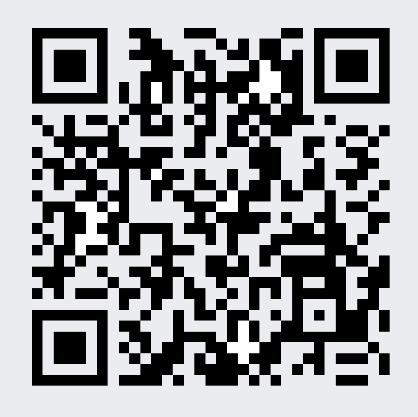
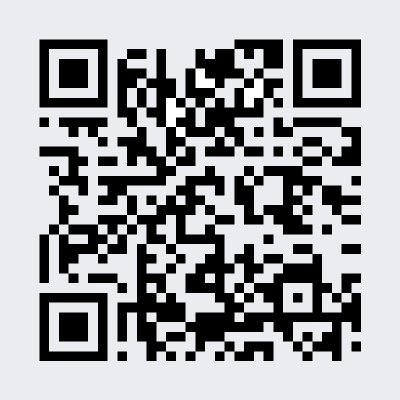
lnurl v2

diff --git a/index.html b/index.html
@@ -382,8 +382,8 @@
         </div>
         <div id="donate" class="dropdown">
             <p>LNURL pro příspěvek prostřednictvím Lightning network:</p>
-            <img src="https://btc-slovnik.cz/img/lnurl.png" alt="LNURL" />
-            <p class="lnurl">LNURL1DP68GURN8GHJ7URP0YHXYARRWDKX7ANWD94JUCM69AKXUATJD3CZ7CTSDYHHVVF0D3H82UNV9UCS5SXUCE</p>
+            <img class="pointer" onclick="clipboardLNURL()" src="https://btc-slovnik.cz/img/lnurl.png" alt="LNURL" />
+            <p onclick="clipboardLNURL()" class="lnurl pointer">LNURL1DP68GURN8GHJ7URP0YHXYARRWDKX7ANWD94JUCM69AKXUATJD3CZ7CTSDYHHVVF0D3H82UNV9UESMDFXNL</p>
             <a class="invoice" rel=”nofollow” href="https://btc-slovnik.cz/pages/donate.html">Standardní LN invoice možno vygenerovat zde.</a>
         </div>
     </footer>

diff --git a/pages/wallet.html b/pages/wallet.html
@@ -81,8 +81,8 @@
     </div>
     <div id="donate" class="dropdown">
         <p>LNURL pro příspěvek prostřednictvím Lightning network:</p>
-        <img src="https://btc-slovnik.cz/img/lnurl.png" alt="LNURL" />
-        <p class="lnurl">LNURL1DP68GURN8GHJ7URP0YHXYARRWDKX7ANWD94JUCM69AKXUATJD3CZ7CTSDYHHVVF0D3H82UNV9UCS5SXUCE</p>
+        <img class="pointer" onclick="clipboardLNURL()" src="https://btc-slovnik.cz/img/lnurl.png" alt="LNURL" />
+        <p onclick="clipboardLNURL()" class="lnurl pointer">LNURL1DP68GURN8GHJ7URP0YHXYARRWDKX7ANWD94JUCM69AKXUATJD3CZ7CTSDYHHVVF0D3H82UNV9UESMDFXNL</p>
         <a class="invoice" rel=”nofollow” href="https://btc-slovnik.cz/pages/donate.html">Standardní LN invoice možno vygenerovat zde.</a>
     </div>
   </footer>

diff --git a/pages/block.html b/pages/block.html
@@ -121,8 +121,8 @@
     </div>
     <div id="donate" class="dropdown">
       <p>LNURL pro příspěvek prostřednictvím Lightning network:</p>
-      <img src="https://btc-slovnik.cz/img/lnurl.png" alt="LNURL" />
-      <p class="lnurl">LNURL1DP68GURN8GHJ7URP0YHXYARRWDKX7ANWD94JUCM69AKXUATJD3CZ7CTSDYHHVVF0D3H82UNV9UCS5SXUCE</p>
+      <img class="pointer" onclick="clipboardLNURL()" src="https://btc-slovnik.cz/img/lnurl.png" alt="LNURL" />
+      <p onclick="clipboardLNURL()" class="lnurl pointer">LNURL1DP68GURN8GHJ7URP0YHXYARRWDKX7ANWD94JUCM69AKXUATJD3CZ7CTSDYHHVVF0D3H82UNV9UESMDFXNL</p>
       <a class="invoice" rel=”nofollow” href="https://btc-slovnik.cz/pages/donate.html">Standardní LN invoice možno vygenerovat zde.</a>
     </div>
   </footer>

diff --git a/pages/crypto.html b/pages/crypto.html
@@ -108,8 +108,8 @@
     </div>
     <div id="donate" class="dropdown">
       <p>LNURL pro příspěvek prostřednictvím Lightning network:</p>
-      <img src="https://btc-slovnik.cz/img/lnurl.png" alt="LNURL" />
-      <p class="lnurl">LNURL1DP68GURN8GHJ7URP0YHXYARRWDKX7ANWD94JUCM69AKXUATJD3CZ7CTSDYHHVVF0D3H82UNV9UCS5SXUCE</p>
+      <img class="pointer" onclick="clipboardLNURL()" src="https://btc-slovnik.cz/img/lnurl.png" alt="LNURL" />
+      <p onclick="clipboardLNURL()" class="lnurl pointer">LNURL1DP68GURN8GHJ7URP0YHXYARRWDKX7ANWD94JUCM69AKXUATJD3CZ7CTSDYHHVVF0D3H82UNV9UESMDFXNL</p>
       <a class="invoice" rel=”nofollow” href="https://btc-slovnik.cz/pages/donate.html">Standardní LN invoice možno vygenerovat zde.</a>
     </div>
   </footer>

diff --git a/pages/lightning.html b/pages/lightning.html
@@ -128,8 +128,8 @@
     </div>
     <div id="donate" class="dropdown">
       <p>LNURL pro příspěvek prostřednictvím Lightning network:</p>
-      <img src="https://btc-slovnik.cz/img/lnurl.png" alt="LNURL" />
-      <p class="lnurl">LNURL1DP68GURN8GHJ7URP0YHXYARRWDKX7ANWD94JUCM69AKXUATJD3CZ7CTSDYHHVVF0D3H82UNV9UCS5SXUCE</p>
+      <img class="pointer" onclick="clipboardLNURL()" src="https://btc-slovnik.cz/img/lnurl.png" alt="LNURL" />
+      <p onclick="clipboardLNURL()" class="lnurl pointer">LNURL1DP68GURN8GHJ7URP0YHXYARRWDKX7ANWD94JUCM69AKXUATJD3CZ7CTSDYHHVVF0D3H82UNV9UESMDFXNL</p>
       <a class="invoice" rel=”nofollow” href="https://btc-slovnik.cz/pages/donate.html">Standardní LN invoice možno vygenerovat zde.</a>
     </div>
   </footer>

diff --git a/pages/math.html b/pages/math.html
@@ -156,8 +156,8 @@
     </div>
     <div id="donate" class="dropdown">
       <p>LNURL pro příspěvek prostřednictvím Lightning network:</p>
-      <img src="https://btc-slovnik.cz/img/lnurl.png" alt="LNURL" />
-      <p class="lnurl">LNURL1DP68GURN8GHJ7URP0YHXYARRWDKX7ANWD94JUCM69AKXUATJD3CZ7CTSDYHHVVF0D3H82UNV9UCS5SXUCE</p>
+      <img class="pointer" onclick="clipboardLNURL()" src="https://btc-slovnik.cz/img/lnurl.png" alt="LNURL" />
+      <p onclick="clipboardLNURL()" class="lnurl pointer">LNURL1DP68GURN8GHJ7URP0YHXYARRWDKX7ANWD94JUCM69AKXUATJD3CZ7CTSDYHHVVF0D3H82UNV9UESMDFXNL</p>
       <a class="invoice" rel=”nofollow” href="https://btc-slovnik.cz/pages/donate.html">Standardní LN invoice možno vygenerovat zde.</a>
     </div>
   </footer>

diff --git a/pages/taproot.html b/pages/taproot.html
@@ -48,8 +48,8 @@
     </div>
     <div id="donate" class="dropdown">
       <p>LNURL pro příspěvek prostřednictvím Lightning network:</p>
-      <img src="https://btc-slovnik.cz/img/lnurl.png" alt="LNURL" />
-      <p class="lnurl">LNURL1DP68GURN8GHJ7URP0YHXYARRWDKX7ANWD94JUCM69AKXUATJD3CZ7CTSDYHHVVF0D3H82UNV9UCS5SXUCE</p>
+      <img class="pointer" onclick="clipboardLNURL()" src="https://btc-slovnik.cz/img/lnurl.png" alt="LNURL" />
+      <p onclick="clipboardLNURL()" class="lnurl pointer">LNURL1DP68GURN8GHJ7URP0YHXYARRWDKX7ANWD94JUCM69AKXUATJD3CZ7CTSDYHHVVF0D3H82UNV9UESMDFXNL</p>
       <a class="invoice" rel=”nofollow” href="https://btc-slovnik.cz/pages/donate.html">Standardní LN invoice možno vygenerovat zde.</a>
     </div>
   </footer>

diff --git a/pages/transaction.html b/pages/transaction.html
@@ -223,8 +223,8 @@
   </div>
   <div id="donate" class="dropdown">
     <p>LNURL pro příspěvek prostřednictvím Lightning network:</p>
-    <img src="https://btc-slovnik.cz/img/lnurl.png" alt="LNURL" />
-    <p class="lnurl">LNURL1DP68GURN8GHJ7URP0YHXYARRWDKX7ANWD94JUCM69AKXUATJD3CZ7CTSDYHHVVF0D3H82UNV9UCS5SXUCE</p>
+    <img class="pointer" onclick="clipboardLNURL()" src="https://btc-slovnik.cz/img/lnurl.png" alt="LNURL" />
+    <p onclick="clipboardLNURL()" class="lnurl pointer">LNURL1DP68GURN8GHJ7URP0YHXYARRWDKX7ANWD94JUCM69AKXUATJD3CZ7CTSDYHHVVF0D3H82UNV9UESMDFXNL</p>
     <a class="invoice" rel=”nofollow” href="https://btc-slovnik.cz/pages/donate.html">Standardní LN invoice možno vygenerovat zde.</a>
   </div>
 </footer>

diff --git a/css/styles.css b/css/styles.css
@@ -131,6 +131,7 @@ button.copylink {
   background-color: inherit;
   margin-left:1em;
   opacity: 0.6;
+  cursor: pointer;
 }
 
 button.copylink:hover {
@@ -141,6 +142,10 @@ button.copylink > img {
   height: 1em;
   vertical-align: center;
  
+}
+
+.pointer {
+  cursor: pointer;
 }
 
 .dot {

diff --git a/functions.js b/functions.js
@@ -47,3 +47,7 @@ function clipboardLink(val) {
   text = 'https://btc-slovnik.cz/#'+val
   navigator.clipboard.writeText(text)
 } 
+
+function clipboardLNURL() {
[1 lines of base64/hex data omitted]
+}
